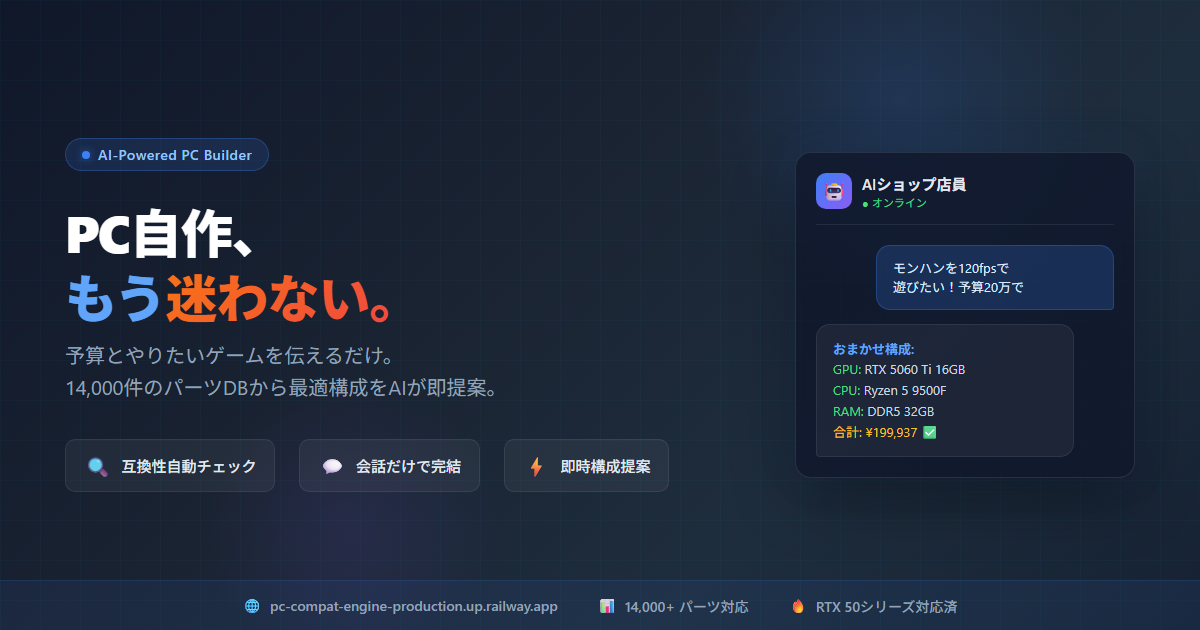
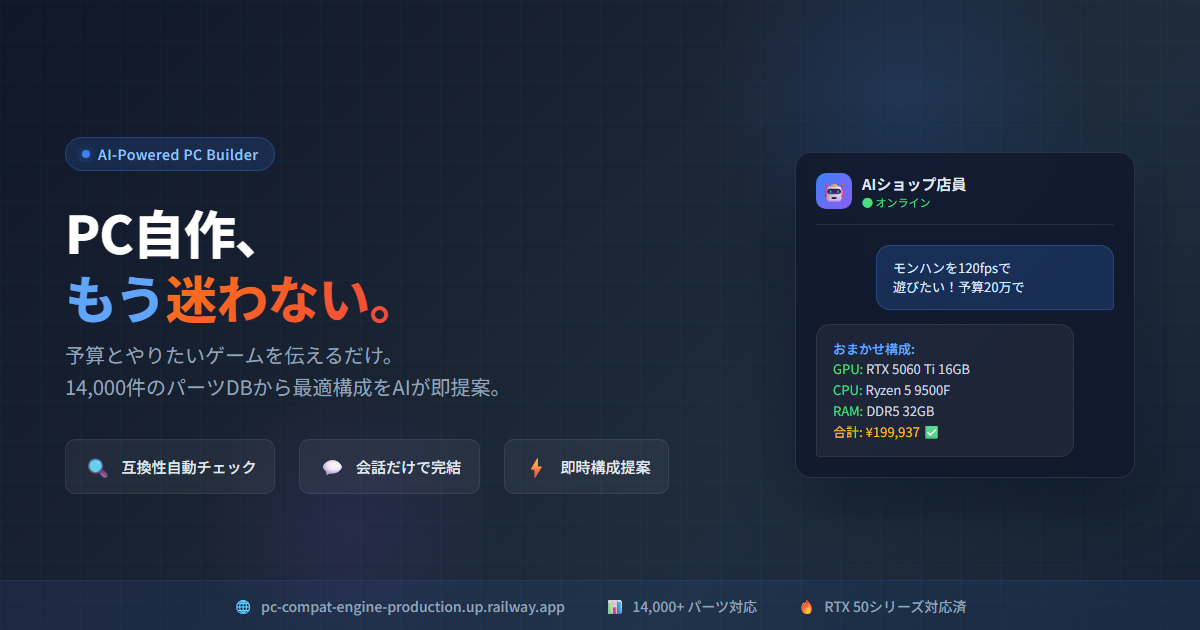
fix: add Google Fonts to OG image for Japanese text rendering
- Add Noto Sans JP font from Google Fonts
- Increase Playwright wait time for font loading
- Wait for networkidle before screenshot

Fixes: Japanese text displaying as tofu (□) in OG image

diff --git a/static/og-image-source.html b/static/og-image-source.html
@@ -2,6 +2,9 @@
 <html>
 <head>
 <meta charset="UTF-8">
+<link rel="preconnect" href="https://fonts.googleapis.com">
+<link rel="preconnect" href="https://fonts.gstatic.com" crossorigin>
+<link href="https://fonts.googleapis.com/css2?family=Noto+Sans+JP:wght@400;500;600;700;800&display=swap" rel="stylesheet">
 <style>
   * { margin: 0; padding: 0; box-sizing: border-box; }
   
@@ -9,7 +12,7 @@
     width: 1200px;
     height: 630px;
     overflow: hidden;
-    font-family: 'Segoe UI', 'Hiragino Kaku Gothic ProN', 'Noto Sans JP', sans-serif;
+    font-family: 'Noto Sans JP', 'Hiragino Kaku Gothic ProN', 'Segoe UI', sans-serif;
   }
 
   .container {

diff --git a/scripts/generate_og_image.py b/scripts/generate_og_image.py
@@ -25,8 +25,9 @@ def generate_og_image():
         # HTMLを開く（file://プロトコル）
         page.goto(f"file:///{HTML_PATH.as_posix()}")
         
-        # レンダリング完了を待つ
-        page.wait_for_timeout(1000)
+        # Google Fonts読み込みを待つ
+        page.wait_for_load_state('networkidle')
+        page.wait_for_timeout(2000)
         
         # スクリーンショット
         page.screenshot(path=str(OUTPUT_PATH))
